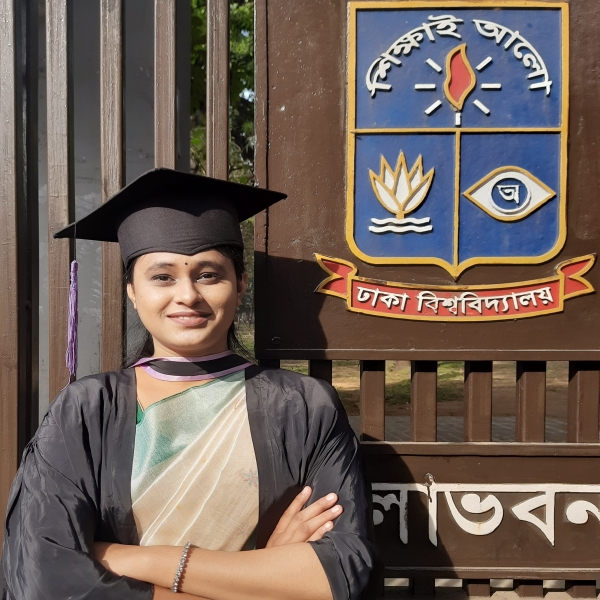
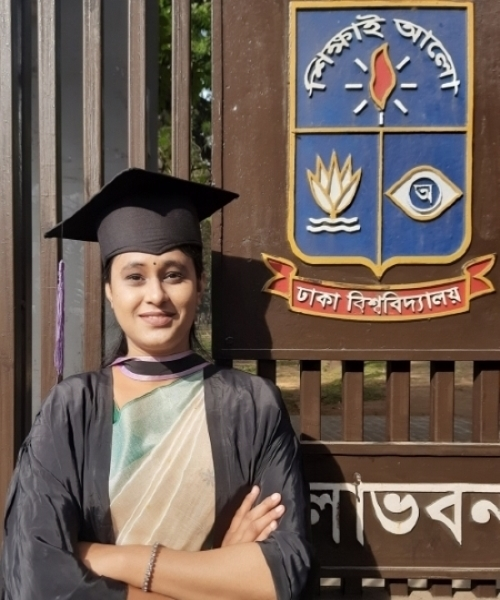
111

diff --git a/index.html b/index.html
@@ -96,7 +96,7 @@
             <a id="logo-container" aria-label="Navigate to the beginning of the page" href="#intro"
               class="brand-logo grey-blue-text">
               <!--img src="/assets/img/passport-new.jpg" class="circle img-responsive profile-pic" alt="avatar"-->
-              <img src="/assets/img/SNIG.jpg" class="circle img-responsive profile-pic" alt="avatar">
+              <img src="/assets/img/SNIGD.jpg" class="circle img-responsive profile-pic" alt="avatar">
 
 
             </a>
